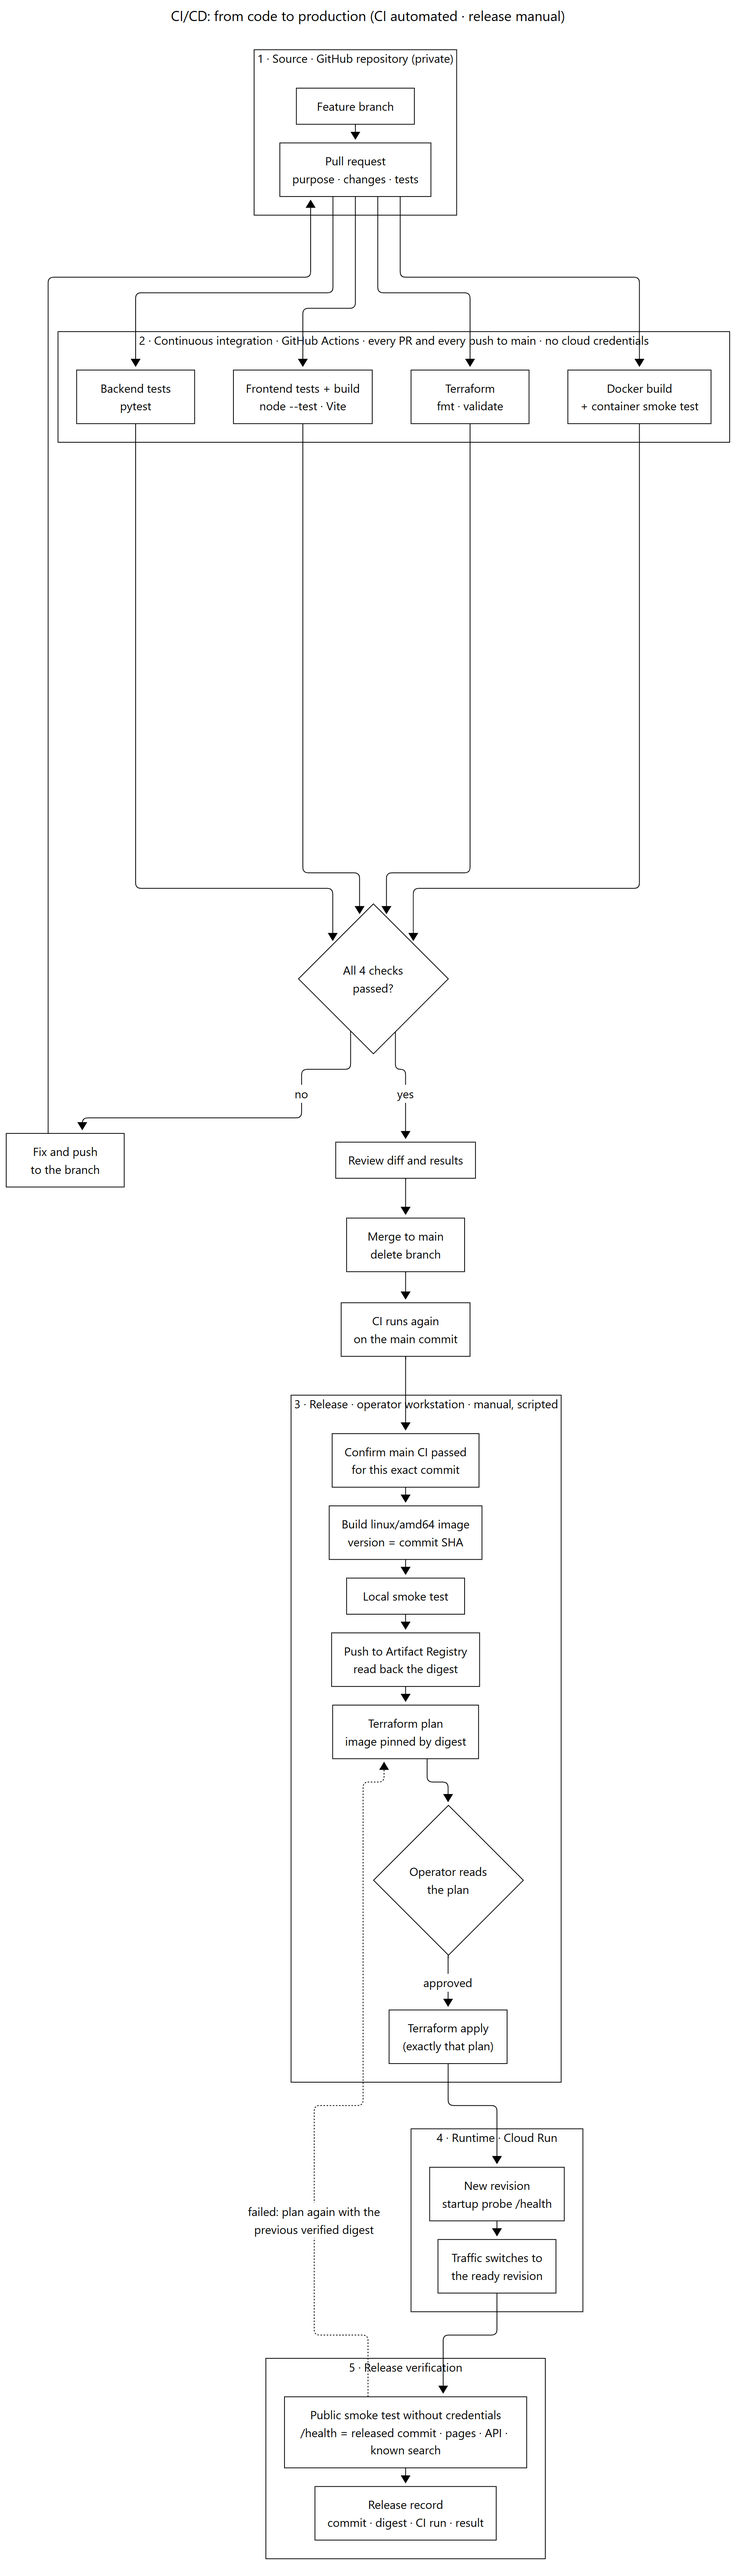
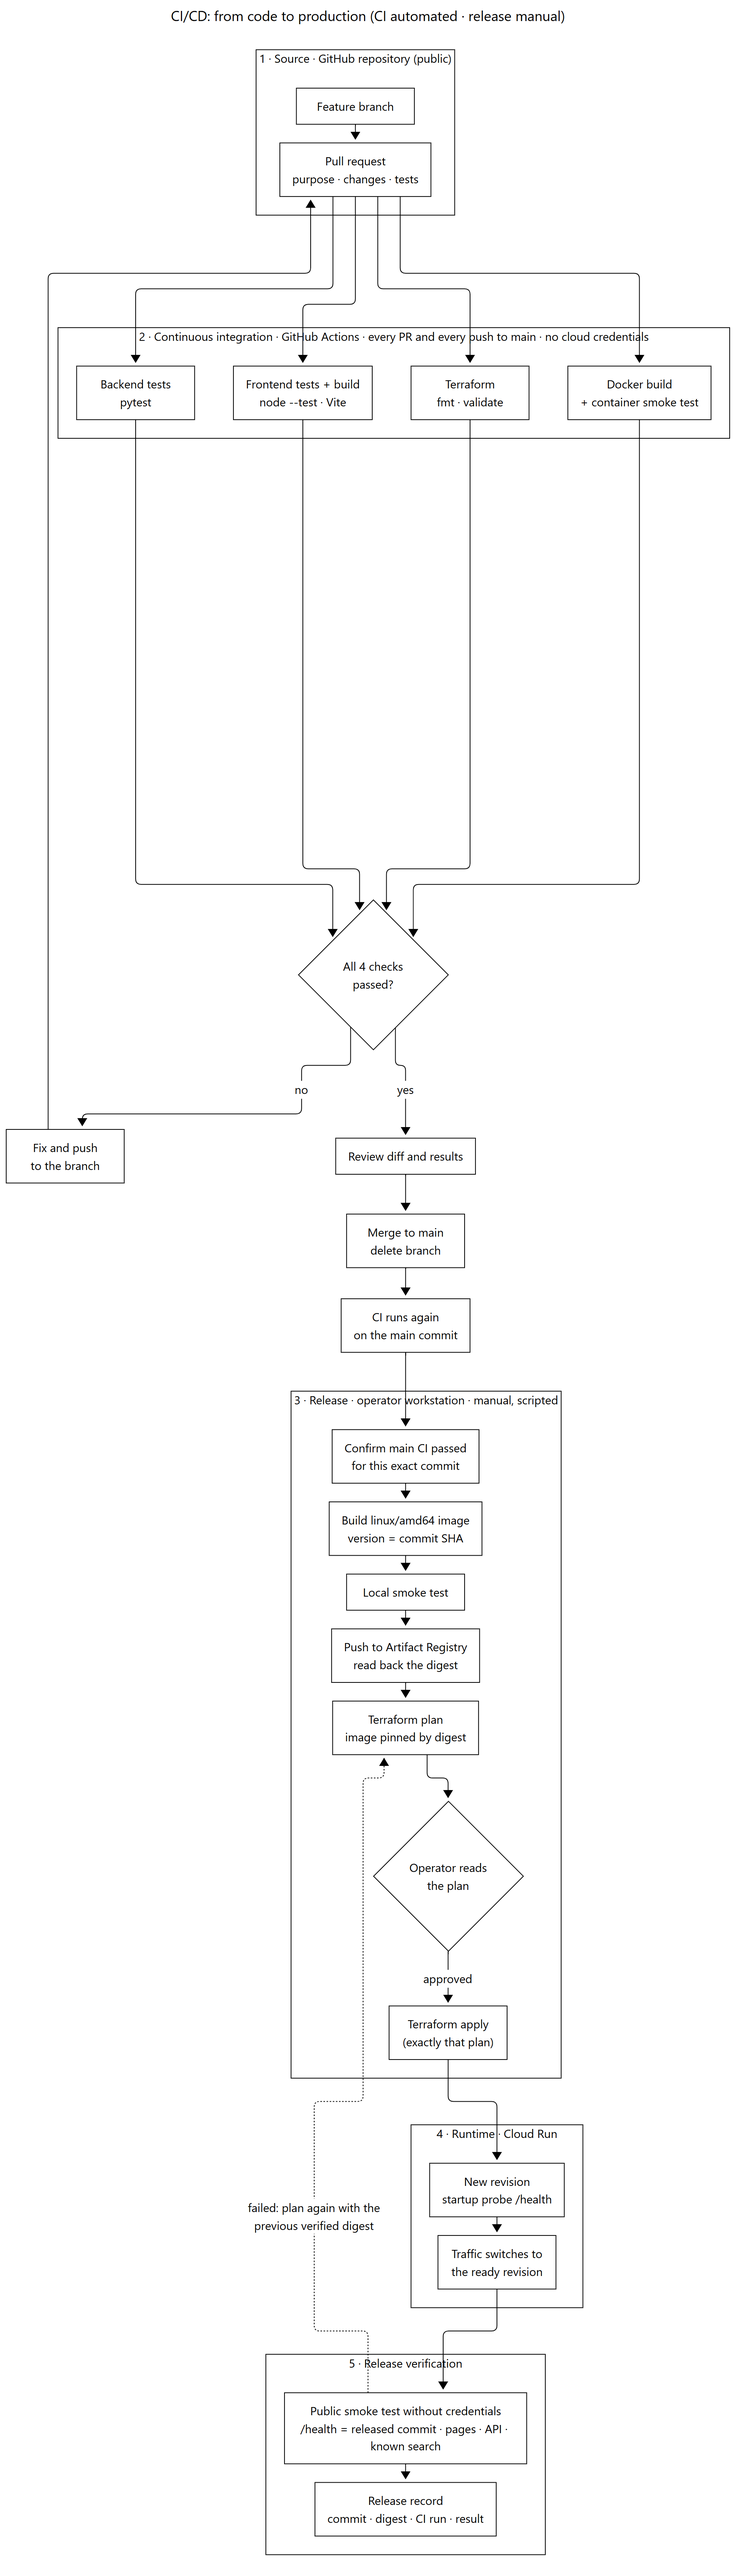
Describe the GitHub repository as public
The repository is public, so the diagrams, README and deployment guide
no longer call the source code private. The image repository stays
private.

diff --git a/README.md b/README.md
@@ -40,7 +40,7 @@ Avatars and reverse geocoding are called from the browser, not from the backend.
 
 ![Deployment architecture](docs/diagrams/output/2-deployment-architecture.png)
 
-- **GitHub:** private repository; GitHub Actions runs CI only.
+- **GitHub:** public repository; GitHub Actions runs CI only.
 - **Docker:** one image holds the API and the built frontend, built on the operator's machine.
 - **Artifact Registry:** private repository; images are deployed by digest.
 - **Cloud Run:** runs the container in `asia-east1` behind Google-managed HTTPS.

diff --git a/docs/deployment.md b/docs/deployment.md
@@ -61,8 +61,8 @@ result). `release/`, Terraform state, plans and variable files stay out of Git; 
 - A startup probe on `/health`.
 - A runtime service account with no project-level IAM roles.
 
-The URL is public because the data is fictional and read-only; the image repository and
-source code stay private.
+The URL is public because the data is fictional and read-only; the image repository stays
+private.
 
 ## Roll back
 
